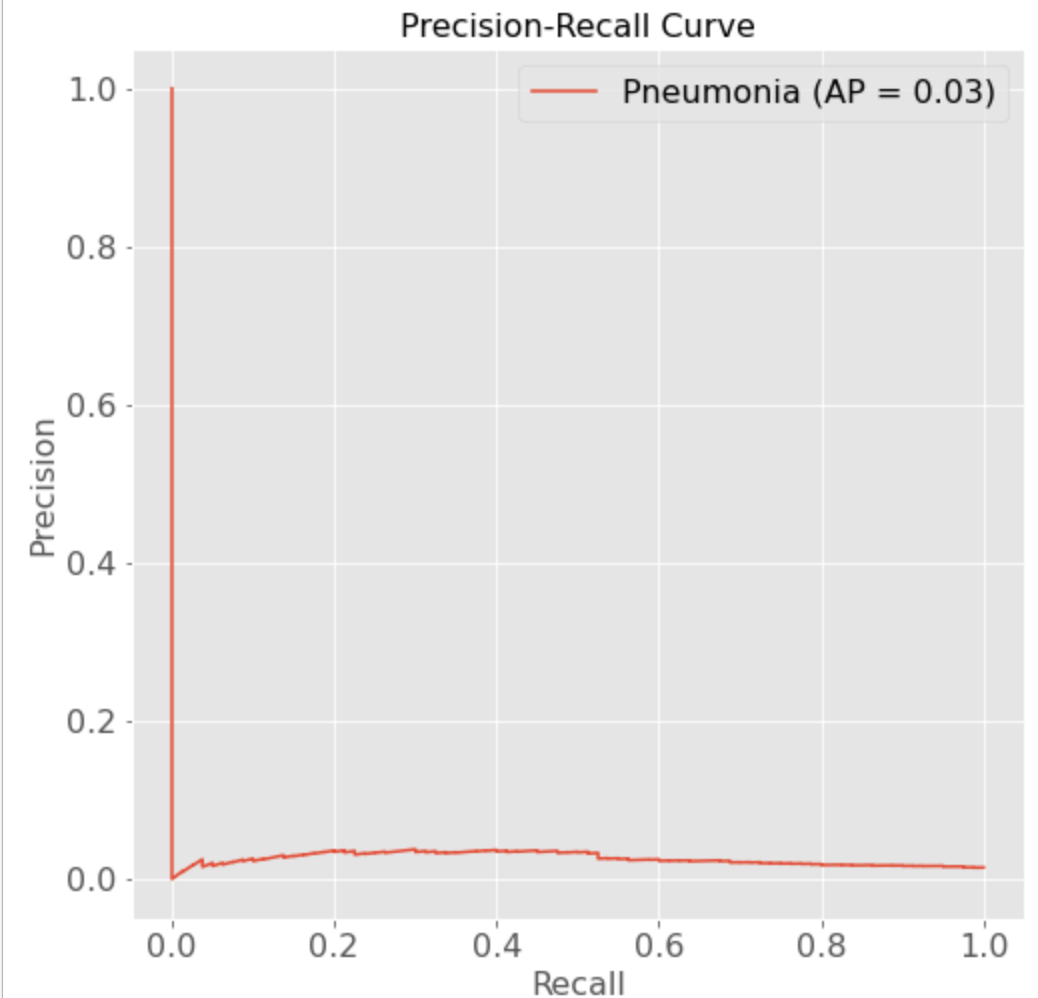
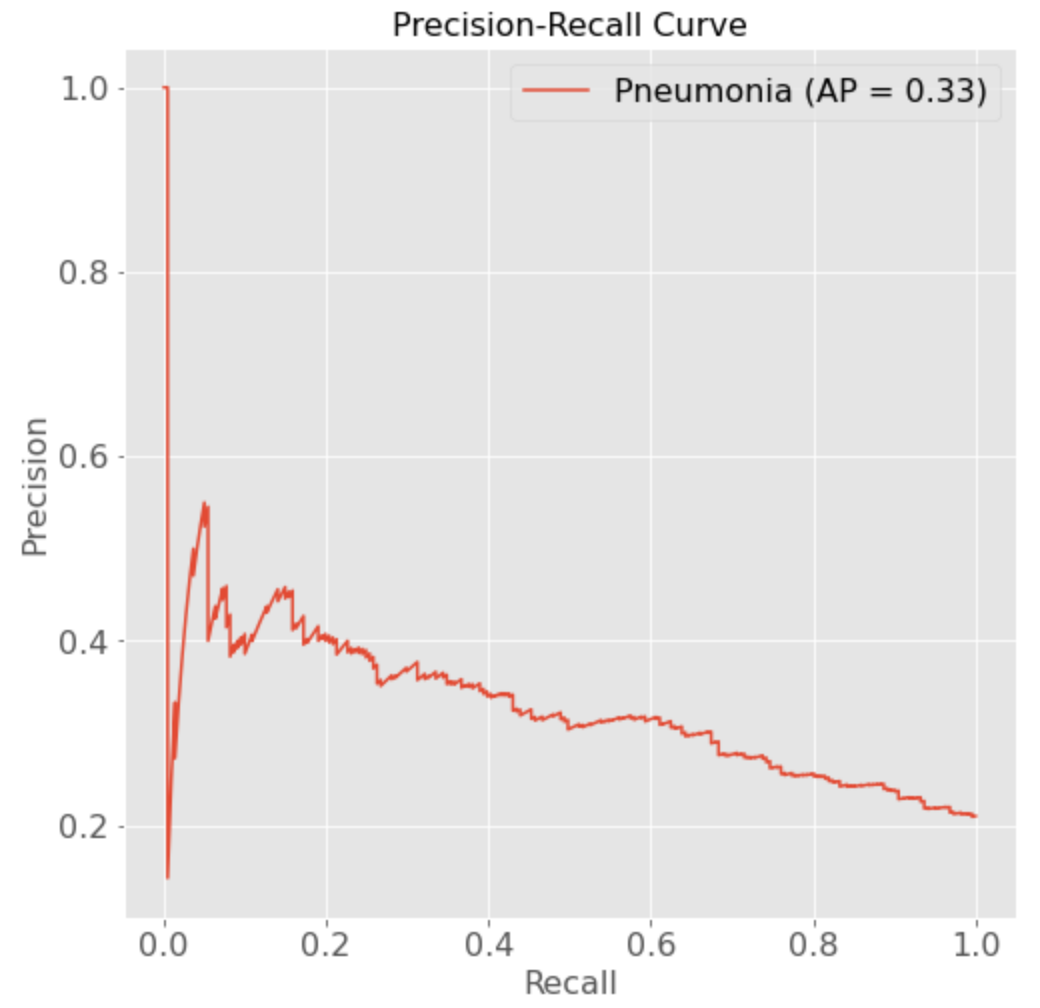
Added graphs and completed sections

diff --git a/Pneumonia_Detection_Chest_X-Rays/FDA_Submission_Template.md b/Pneumonia_Detection_Chest_X-Rays/FDA_Submission_Template.md
@@ -14,15 +14,17 @@ For assisting the radiologist in the detection of pneumonia in a chest X-ray ima
 
 **Indications for Use:**
 
-Screening chest X-ray studies taken in PA or AP positions from any human subject between ages 2-90 years old. The human may present or not any other chest condition detectable by X-ray.
+Screening chest X-ray studies taken in PA or AP positions from any human subject between ages 2-90 years old. The subject may present or not any other chest condition detectable by X-ray.
 
 **Device Limitations:**
 
 The algorithm is best adapted for subjects between 20-70 years old.
+The algorithm has a very low sensitivity and thus performs very poorly in the presence of atelectasis, cardiomegaly, emphysema.
+In the presence of other diseases, due to the high specificity in that condition, the algorithm has a better use if employed mainly to dismiss pneumonia.
 
 **Clinical Impact of Performance:**
 
-The algotihm was trained in a huge dataset where only 1.28% of the images corresponded to patients with pneumonia. Then it is designed to have a high number of false positives in order to minimize false negatives.
+The algorithm was trained in a huge dataset where only 1.28% of the images corresponded to patients with pneumonia and trained for a clinical setting where pneumonia is prevalent in 20% of cases. Under this condition, recall is a wel adapted metric because it will favor a high number of false positives in order to minimize false negatives, and thus a negative impact on the patient. However, this model is designed to assist a radiologist in diagnosis, so the best F1 score will be considered to evaluate performance. 
 
 ### 2. Algorithm Design and Function
 
@@ -32,7 +34,12 @@ Model plot: "model_1: Model" corresponds to a pretrained VGG16 architecture.
 
 **DICOM Checking Steps:**
 
-Images checked to be gray images.
+Check for imaging modality: X-ray ('DX').
+Check for imaged body part: 'CHEST'.
+Check for patient position: posterior/anterior ('PA') or anterior/posterior ('AP').
+Check patien's age: between 2 and 90 years old.
+Images checked to be gray images, if not turned to gray.
+
 
 **Preprocessing Steps:**
 
@@ -81,29 +88,39 @@ Model_1 below corresponds to pretrained VGG16 architecture.
 
 <img src="./p-r_curve.png" alt="performance." width="600"/>
 
+ * F₁ score vs. threshold:
+
+<img src="./f1_thresh.png" alt="f1score." width="600"/>
+
 **Final Threshold and Explanation:**
 
-Given that the classes of interest in the dataset are so unbalanced, the behavior of the non dominant class was considered and thus more importance was given to the recall metric. For the develped model, lower thresholds give rise to better recalls but they considerably increase the false positive rates. A threshold of 0.45 giving an acceptable recall of ~0.7 was choosen as it gives a good balance between true positves and false positives: it will detect true positives ~70% of the times without exagerating the account of false positives.
+The metric of choice ti choose the threshold was the F₁ score. As the plot above shows, the best score is obtained for a threshold of \~0.34. Under the chosen threshold, the algorithm gives the following during validation:  
+- Accuracy: \~0.65  
+- Precision: \~0.32  
+- Recall: \~0.61  
+- F₁ Score: \~0.42
 
 ### 4. Databases
  (For the below, include visualizations as they are useful and relevant)
+
+ The training and validation datasets are comprised of chest X-rays ('DX') images for female and male patients bewteen 2 and 90 years old. The X-ray images have either an anterior/posterior or a posterior/anterior view. Finally the most common co-occurrences with pneumonia are infiltration, edema, atelectasis and effusion. Only in 22.5% of cases where there is a finding in an image, pneumonia is found alone.
 
 **Description of Training Dataset:** 
 
   - Data with no pneumonia: 50%.
   - Data with pneumonia: 50%.
   - Number of training images: 2288.
-  - Number of validating images: 6037.
+  - Number of validating images: 1073.
 
 **Description of Validation Dataset:** 
 
-  - Data with no pneumonia (as in original dataset): 98.72%.
-  - Data with pneumonia (as in original dataset): 1.28%.
-  - Number of validation images (different from training validation images): 6037.
+  - Data with no pneumonia (as in original dataset): 80%.
+  - Data with pneumonia (as in original dataset): 20%.
+  - Number of validation images (different from training validation images): 1072.
 
 ### 5. Ground Truth
 
-Data curated by NIH. Ground truth labels extracted using Natural Language Processing (NLP). This is one of its biggest limitation but the NLP accuracy labeling was estimated to be better than 90%.
+Data curated by NIH. Ground truth labels extracted using Natural Language Processing (NLP). This is one of its biggest limitations but the NLP accuracy labeling was estimated to be better than 90%.
 
 The second biggest limitation is the low amount of pneumonia images in the dataset but this was taken into account for training and model results interpretation.
 
@@ -113,12 +130,17 @@ The second biggest limitation is the low amount of pneumonia images in the datas
 
   - Human subjects between 20-70 years old.
   - Chest X-ray studies taken in PA or AP positions.
-  - Most common co-occorrences: edema and infiltration.
+  - Most common co-occorrences to avoid: edema, infiltration, atelectasis and effusion.
 
 **Ground Truth Acquisition Methodology:**
 
-The optimal ground truth will take into account confirmation of the disease by histopathology. When this is not possible the labelling from experienced radiologists could be considered.
+The algorithm will be used as an aid tool for a radiologist's diagnosis. As such, the silver standard measure is used to evaluate the algorithm. In this particular case, the silver standard is the labelling from experienced radiologists.
 
 **Algorithm Performance Standard:**
 
-To evaluate the algorithm performance, F1 scores of the algorithm predictions compared to 4 different radiologists will be considered. A final F1 average score weighted by the radiologist's years of experience will be reported as the final performance standard.
+According to [Rajpurkar et al. [1]](https://arxiv.org/pdf/1711.05225.pdf) to evaluate the algorithm performance F₁ scores of the algorithm predictions are compared to scores from 4 different radiologists.  A final F₁ score greater than the average from radiologists' scores is acceptable. In this case, an F₁ > 0.387 stands for a good model.
+
+**References:**
+
+[1] Pranav Rajpurkar, Jeremy Irvin, Kaylie Zhu, Brandon Yang, Hershel Mehta, Tony Duan, Daisy Ding, Aarti Bagul, Curtis Langlotz, Katie Shpanskaya, Matthew P. Lungren, Andrew Y. Ng,
+    *"CheXNet: Radiologist-Level Pneumonia Detection on Chest X-Rays with Deep Learning"*, 2017, [https://arxiv.org/pdf/1711.05225.pdf](https://arxiv.org/pdf/1711.05225.pdf)
